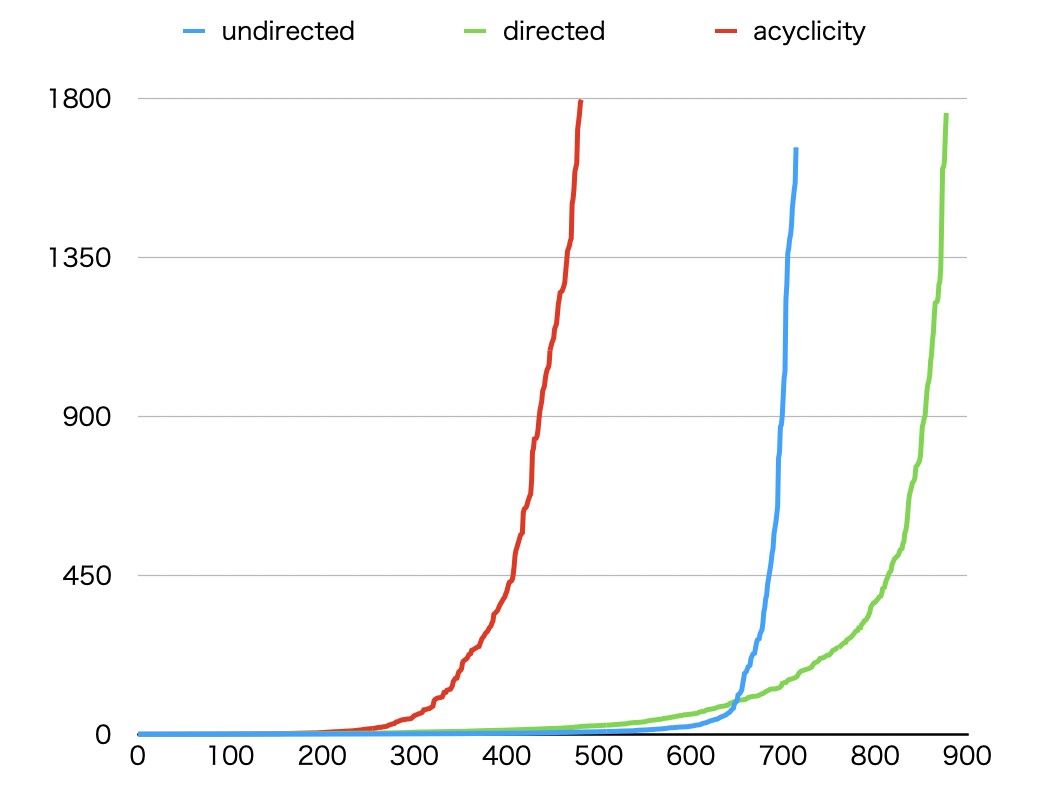
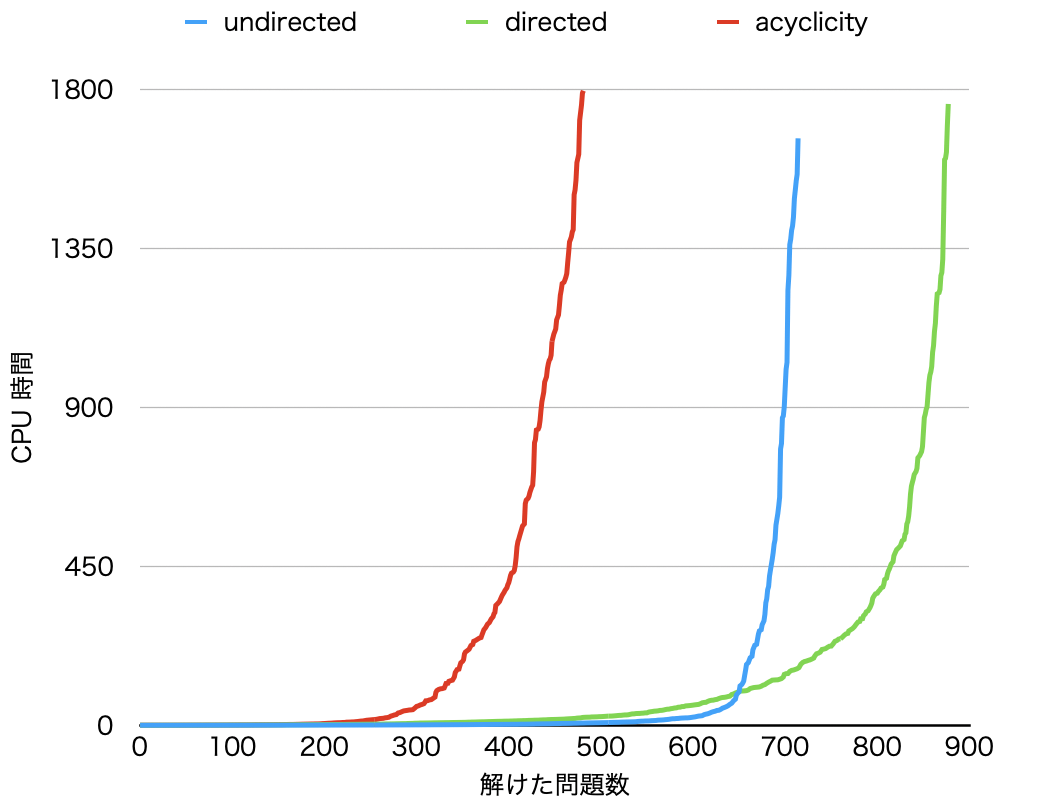
update slide

diff --git a/02_hirate/jssst2021/slides/slide.tex b/02_hirate/jssst2021/slides/slide.tex
@@ -352,7 +352,7 @@
 \item \code{(1)}: 与えられた無向グラフの各辺 \code{edge(X,Y)} に対して，
   \alert{弧 \code{X}~$\rightarrow$~\code{Y}}を表す
   \code{in(X,Y)} と
-  \alert{弧 \code{X}~$\rightarrow$~\code{Y}}を表す
+  \alert{弧 \code{Y}~$\rightarrow$~\code{X}}を表す
   \code{in(Y,X)} の2個のアトムを導入し，
   2つの弧のうち，高々1個がハミルトン閉路に含まれることを表す．
 \end{itemize}
@@ -364,7 +364,7 @@
   \item \code{(2)}: 各頂点\code{node(X)}の出次数が1に等しいことを表す．
   \item \code{(3)}: 各頂点\code{node(X)}の入次数が1に等しいことを表す．
   \end{itemize}
-\item \code{(4)}--\code{(6)}: 連結制約は．\textsf{directed}符号化と同じ．
+\item \code{(4)}--\code{(6)}: 連結制約は．\textsf{undirected}符号化と同じ．
 \item \code{(7)}: 対称解を除去する制約
 \end{itemize}
 }
@@ -468,7 +468,6 @@ Flinders Hamiltonian Cycle Project (FHCP)~\footnotemark[2] で
 \end{center}
 
 \begin{itemize}
-\item \alert{TODO: 横軸「解けた問題数」，縦軸「CPU時間」を追加}
 \item \code{directed} 符号化が，他の2つの符号化と比較して，
   より多くの問題を高速に解いていることがわかる．
 \end{itemize}
@@ -480,13 +479,12 @@ Flinders Hamiltonian Cycle Project (FHCP)~\footnotemark[2] で
   
 %%%%%%%%%%%%%%%%%%%%%%%%%%%%%%
 \begin{center}
-% \scalebox{0.9}[0.9]{\input{fig/venn_diagram.tex}}
-\includegraphics[width=0.5\linewidth]{fig/venn.jpeg}
+\scalebox{0.5}[0.5]{\input{fig/venn_diagram.tex}}
+% \includegraphics[width=0.5\linewidth]{fig/venn.jpeg}
 \end{center}
 %%%%%%%%%%%%%%%%%%%%%%%%%%%%%%
 \vfill
 \begin{itemize}
-\item \alert{TODO: ベン図の差し替え}
 \item 全1,001問のうち，いずれかの符号化で解けた問題数は903問，
   どの符号化でも解けなかった問題数は98問であった．
 \item \code{acyclicity} 符号化で解けた482問は，1問を除いて，
@@ -623,7 +621,6 @@ Flinders Hamiltonian Cycle Project (FHCP)~\footnotemark[2] で
 %\includegraphics[width=0.7\linewidth]{fig/taocp_vol4fasc1b_p52_eq133.pdf}
 
 \begin{itemize}
-\item \alert{TODO: 平均CPU時間の桁数だけ4桁，他は3桁．3桁に揃える}
 \item \code{acyclicity} 符号化が，より多くの問題を
   高速に解き，平均 CPU 時間も最も短かった．
 \end{itemize}  

diff --git a/02_hirate/jssst2021/slides/fig/cost_table.tex b/02_hirate/jssst2021/slides/fig/cost_table.tex
@@ -6,18 +6,18 @@
   \begin{tabular}{lr|rrr}
     閾値(倍率)    &	解の総数 & \textsf{undirected} & \textsf{directed} & \textsf{acyclicity} \\
     \hline
-    11698(1.00)   &	1      &\alert{2.979} & 7.531 & 4.586	\\
-    11814(1.01)   &	8      &5.587  & 15.322	& \alert{5.250}	\\
-    11931(1.02)   &	28     &\alert{3.243}& 18.600	& 3.578	\\
-    12282(1.05)   &	388    &10.003&19.818	& \alert{6.296}	\\
-    12867(1.10)   &	16,180  &16.548& 28.555	& \alert{9.764}\\
-    14037(1.20)   &	939,209 &48.262       &40.717	& \alert{26.837}\\
-    15207(1.30)   &	4,525,541&88.172      &55.276	& \alert{42.037}\\
-    16377(1.40)   &	6,702,964&99.154       &47.647	& \alert{40.640}	\\
-    17547(1.50)   &	6,876,526&95.390       &45.265	& \alert{38.411}	\\
-    18716(1.60)   &	6,876,928&98.937       &49.138	& \alert{40.748}	\\
+    11698(1.00)   &	1      &\alert{2.98} & 7.53 & 4.59	\\
+    11814(1.01)   &	8      &5.59  & 15.32	& \alert{5.25}	\\
+    11931(1.02)   &	28     &\alert{3.24}& 18.6	& 3.58	\\
+    12282(1.05)   &	388    &10.0&19.8	& \alert{6.30}	\\
+    12867(1.10)   &	16,180  &16.5& 28.6	& \alert{9.76}\\
+    14037(1.20)   &	939,209 &48.3       &40.7	& \alert{26.8}\\
+    15207(1.30)   &	4,525,541&88.2      &55.3	& \alert{42.0}\\
+    16377(1.40)   &	6,702,964&99.2       &47.6	& \alert{40.6}	\\
+    17547(1.50)   &	6,876,526&95.4       &45.3	& \alert{38.4}	\\
+    18716(1.60)   &	6,876,928&98.9       &49.1	& \alert{40.7}	\\
     \hline
-    平均CPU時間 &   & 46.8275 & 32.7869  & \alert{21.8147}\\
+    平均CPU時間 &   & 46.83 & 32.79  & \alert{21.81}\\
 %    Best    &   & 2 & 0 & \alert{8} \\ \hline
   \end{tabular}
 %  \vskip .5em

diff --git a/02_hirate/jssst2021/slides/fig/venn_diagram.tex b/02_hirate/jssst2021/slides/fig/venn_diagram.tex
@@ -1,3 +1,24 @@
-%\begin{tikzpicture}
-
-%\end{tikzpicture}
+\begin{tikzpicture}
+% 座標設定
+\coordinate (O) at (0,0);
+\coordinate (NE) at (5,4.5);
+\coordinate (SW) at (-5,-3.5);
+% 円の描画
+\filldraw[draw=black, fill=white,line width=1pt] (SW) rectangle (NE);
+\filldraw[draw=\venncolorA,fill=\venncolorA,fill opacity=0.1,line width=1pt] \venncircleA;
+\filldraw[draw=\venncolorB,fill=\venncolorB,fill opacity=0.1,line width=1pt] \venncircleB;
+\filldraw[draw=\venncolorC,fill=\venncolorC,fill opacity=0.1,line width=1pt] \venncircleC;
+% ラベルの描画
+  \node[set label] at (O |- NE) {$U$ (計1001問)};
+  \node[set label,text=\venncolorA] at (90:\vennradius+0.85*\vennradius) {undirected};
+  \node[set label,text=\venncolorB] at (-150:\vennradius+\vennratio*\vennradius) {acyclicity};
+  \node[set label,text=\venncolorC] at (-30:\vennradius+\vennratio*\vennradius) {directed};
+  \node[font=\Large] at (90:\vennradius) {23};
+  \node[font=\Large] at (-150:\vennradius) {0};
+  \node[font=\Large] at (-30:\vennradius) {107};
+  \node[font=\Large] at (30:1.1)  {291};
+  \node[font=\Large] at (150:1.1) {1};
+  \node[font=\Large] at (-90:1.1) {81};
+  \node[font=\Large] at (0:0)   {400};
+  \node[font=\Large] at (155:4) {98};
+\end{tikzpicture}

diff --git a/02_hirate/jssst2021/slides/macro.tex b/02_hirate/jssst2021/slides/macro.tex
@@ -21,6 +21,23 @@
   moredelim=[is][\color{red}\bfseries]{<\#}{\#>},
 }
 
+%Tikzの設定(ベン図)
+\usetikzlibrary{calc}
+\usetikzlibrary{shapes}
+\tikzset{
+  set label/.style={fill=white,ellipse,inner sep=2}
+}
+\def\vennradius{2}
+\def\vennratio{0.8}
+\def\venncenterA{90:\vennratio*\vennradius}
+\def\venncenterB{-150:\vennratio*\vennradius}
+\def\venncenterC{-30:\vennratio*\vennradius}
+\def\venncolorA{blue}
+\def\venncolorB{red}
+\def\venncolorC{green!70!black}
+\def\venncircleA{(\venncenterA) circle [radius=\vennradius]}
+\def\venncircleB{(\venncenterB) circle [radius=\vennradius]}
+\def\venncircleC{(\venncenterC) circle [radius=\vennradius]}
 
 %%% For ASP
 \newcommand{\asap}{\textit{teaspoon}}
